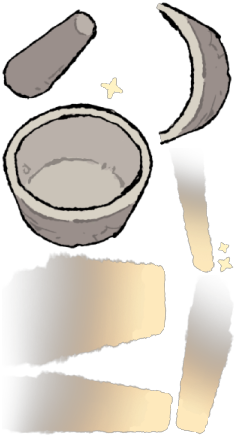
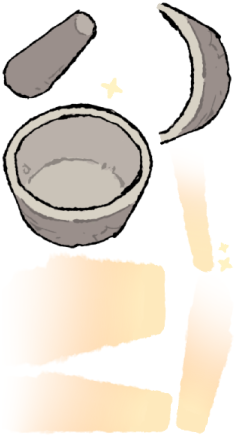
动画修改，换图

diff --git a/Assets/Editor/CookGrinderSpineReimport.cs b/Assets/Editor/CookGrinderSpineReimport.cs
@@ -1,0 +1,30 @@
+#if UNITY_EDITOR
+using Spine.Unity;
+using Spine.Unity.Editor;
+using UnityEditor;
+using UnityEngine;
+
+public static class CookGrinderSpineReimport
+{
+    private const string JsonPath = "Assets/Art/Spine/CookGrinderEffect/CookGrinderEffect.json";
+    private const string AtlasPath = "Assets/Art/Spine/CookGrinderEffect/CookGrinderEffect.atlas.txt";
+    private const string PngPath = "Assets/Art/Spine/CookGrinderEffect/CookGrinderEffect.png";
+    private const string SkeletonDataPath = "Assets/Art/Spine/CookGrinderEffect/CookGrinderEffect_SkeletonData.asset";
+
+    [MenuItem("Tools/Spine/Reimport CookGrinderEffect")]
+    public static void Reimport()
+    {
+        AssetDatabase.ImportAsset(PngPath, ImportAssetOptions.ForceUpdate);
+        AssetDatabase.ImportAsset(AtlasPath, ImportAssetOptions.ForceUpdate);
+        AssetDatabase.ImportAsset(JsonPath, ImportAssetOptions.ForceUpdate);
+
+        SkeletonDataAsset skeletonData = AssetDatabase.LoadAssetAtPath<SkeletonDataAsset>(SkeletonDataPath);
+        if (skeletonData != null)
+            SpineEditorUtilities.ReloadSkeletonDataAsset(skeletonData, true);
+
+        AssetDatabase.SaveAssets();
+        AssetDatabase.Refresh();
+        Debug.Log("[CookGrinderSpineReimport] CookGrinderEffect 已重新导入");
+    }
+}
+#endif
